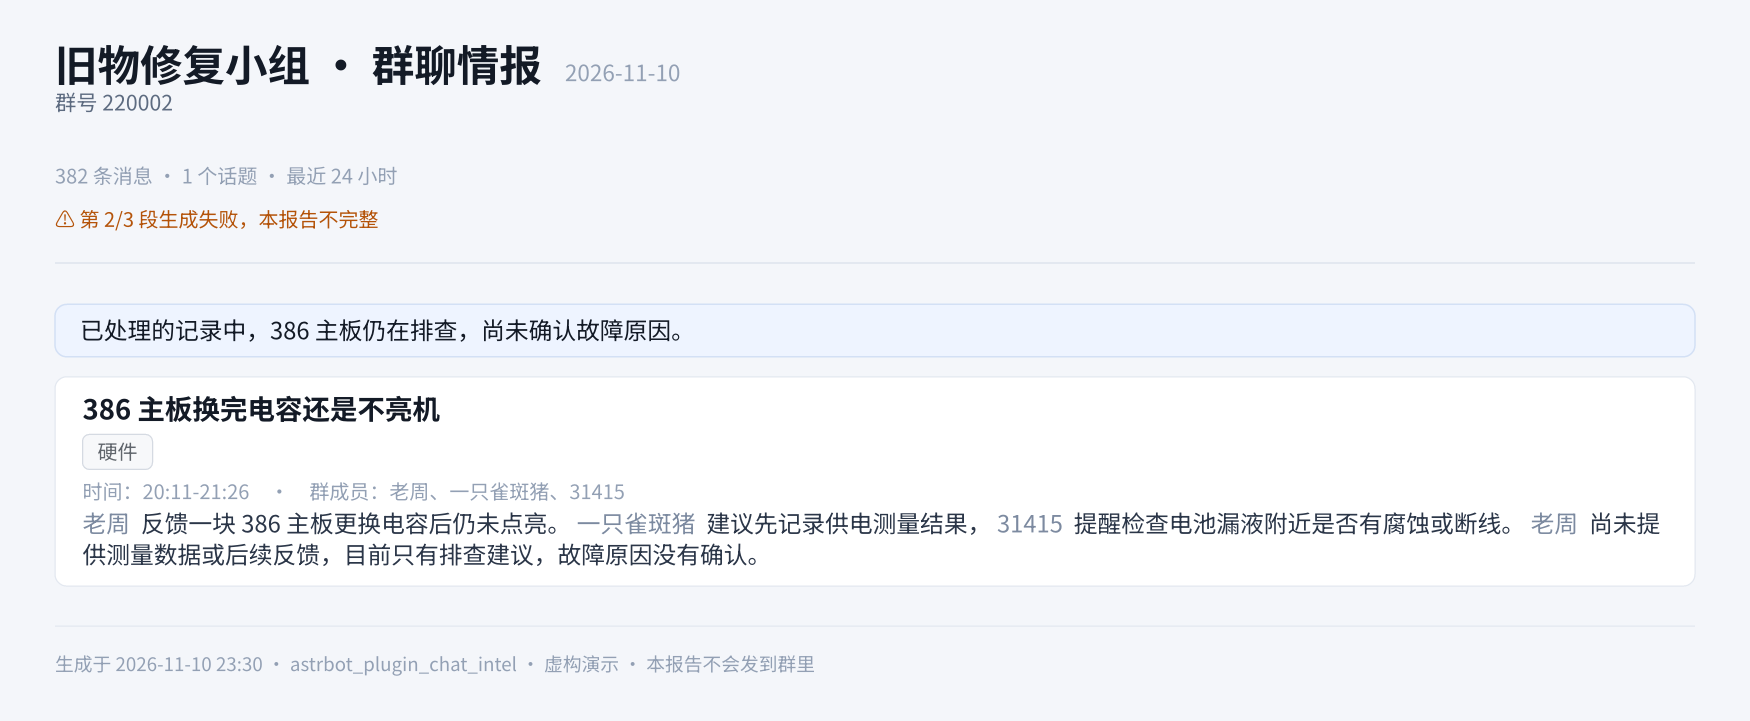
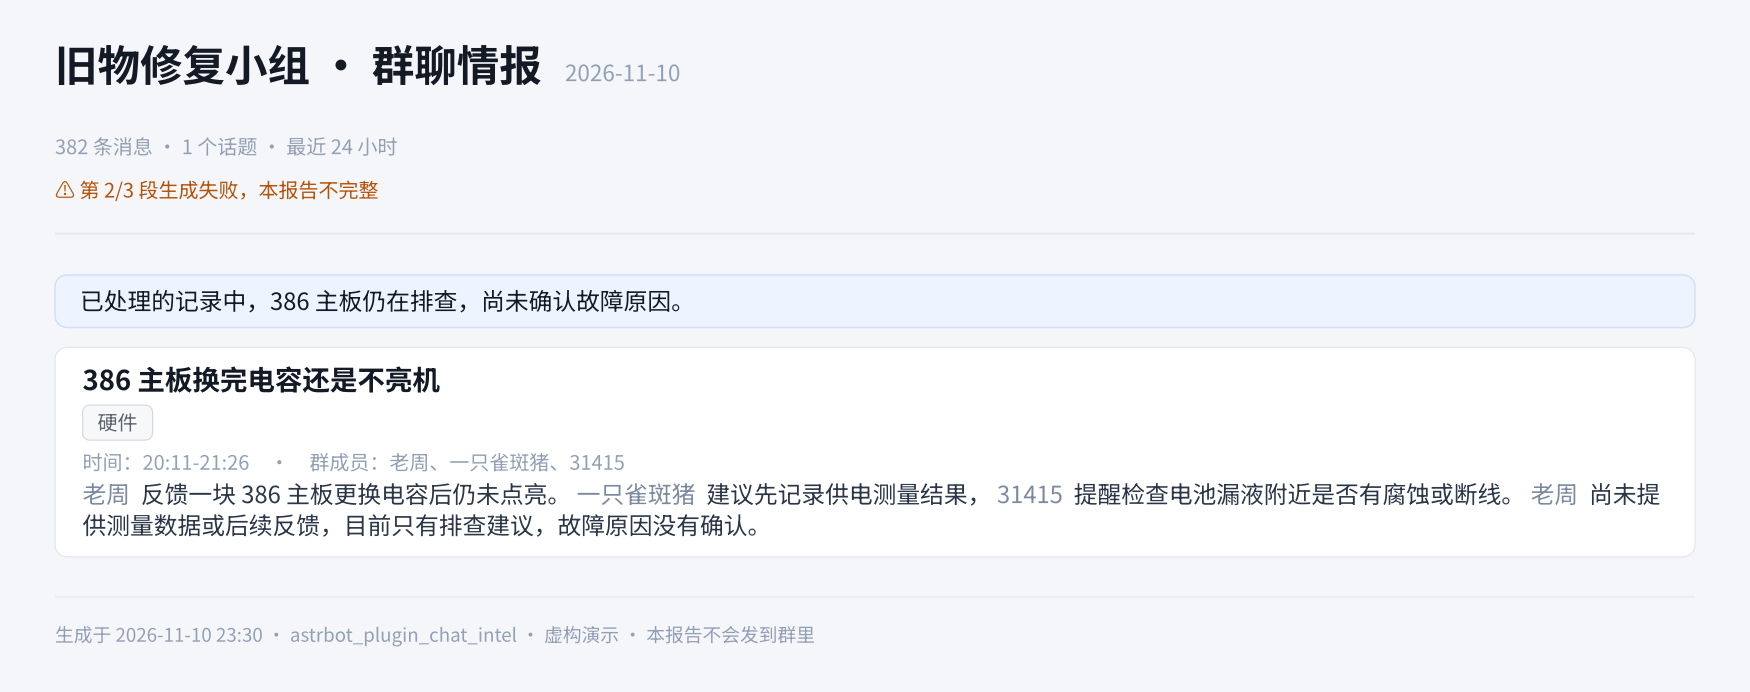
2.2.20：报告图不再印群号（转发不泄露哪个群）——模板删副标题群号行、payload 去掉 group、出图前加 _scrub_gid 强制关卡，群号只留本地 JSON 与文字回复；样张按新模板重绘，新增 5 条隐私测试（351 → 356）

diff --git a/tests/test_report_privacy.py b/tests/test_report_privacy.py
@@ -1,0 +1,107 @@
+"""报告图会被人转发出去，所以图里不许出现群号。
+
+群名可以留（用户自己配的备注，就是给报告当标题用的），群号不行：
+转发一张图等于把「哪个群」直接交出去。
+"""
+
+import json
+
+import pytest
+from conftest import PLUGIN_DIR, make_plugin
+
+GID = "220001"
+
+
+def test_template_does_not_print_group_number():
+    """模板里不该再有任何群号位（以前是标题下面那行「群号 220001」）。"""
+    text = (PLUGIN_DIR / "templates" / "report.typ").read_text(encoding="utf-8")
+    assert "群号" not in text, "模板里还印着群号"
+    assert 'd.at("group"' not in text, "模板还在读 group 字段"
+
+
+def test_scrub_removes_gid_anywhere_in_the_payload():
+    """不管谁把群号塞进哪个字段，出图前都要被抹掉。"""
+    from conftest import load_main
+
+    mod = load_main()
+    payload = {
+        "title": f"测试群 · 群聊情报",
+        "date": "2026-11-10",
+        "group": f"群号 {GID}",
+        "stats": {"line": f"在 {GID} 里采到 382 条"},
+        "headline": f"{GID} 今天很安静",
+        "footer": f"生成于 2026-11-10 23:30 · {GID}",
+        "topics": [{"title": f"来自 {GID} 的话题", "parts": [f"群友说 {GID} 好卡"]}],
+    }
+    out = mod._scrub_gid(payload, GID)
+    dumped = json.dumps(out, ensure_ascii=False)
+    assert GID not in dumped, dumped
+
+
+def test_scrub_keeps_the_rest_of_the_content():
+    """只抹群号，不许把正文弄坏。"""
+    from conftest import load_main
+
+    mod = load_main()
+    payload = {
+        "title": "测试群 · 群聊情报",
+        "stats": {"line": "382 条消息 · 1 个话题 · 最近 24 小时"},
+        "topics": [{"title": "386 主板换完电容还是不亮机", "parts": ["老周 反馈…"]}],
+    }
+    out = mod._scrub_gid(payload, GID)
+    assert out["title"] == payload["title"]
+    assert out["stats"]["line"] == payload["stats"]["line"]
+    assert out["topics"][0]["title"] == payload["topics"][0]["title"]
+
+
+def test_scrub_does_not_touch_other_numbers():
+    """别把 220001 当子串去误伤正常数字（比如消息条数）。"""
+    from conftest import load_main
+
+    mod = load_main()
+    payload = {"stats": {"line": "1220001 条消息"}, "headline": "2200010 次点击"}
+    out = mod._scrub_gid(payload, GID)
+    dumped = json.dumps(out, ensure_ascii=False)
+    assert GID not in dumped
+    # 这两个数字里含群号子串，但不该被整段吃掉到只剩空白
+    assert "条消息" in dumped and "次点击" in dumped
+
+
+def test_render_writes_no_gid_into_the_typst_data(tmp_path, monkeypatch):
+    """真正的关卡在渲染前：写进 data.json 的内容已经没有群号了。"""
+    typst = pytest.importorskip("typst")
+    from conftest import load_main
+
+    mod = load_main()
+    p, _ = make_plugin()
+    p.reports_dir = tmp_path
+    p.template = PLUGIN_DIR / "templates" / "report.typ"
+    p.font_dir = tmp_path
+    p.ppi = 72
+
+    seen: dict = {}
+
+    def fake_compile(*args, **kwargs):
+        root = kwargs.get("root") or ""
+        from pathlib import Path
+
+        seen["data"] = (Path(root) / "data.json").read_text(encoding="utf-8")
+        return None
+
+    monkeypatch.setattr(typst, "compile", fake_compile)
+
+    payload = {
+        "title": "测试群 · 群聊情报",
+        "date": "2026-11-10",
+        "group": f"群号 {GID}",
+        "stats": {"line": f"{GID}"},
+        "headline": "",
+        "warn": "",
+        "topics": [],
+        "footer": f"{GID}",
+    }
+    p._render(payload, GID, "今天")
+
+    assert "data" in seen, "渲染没有走到写 data.json 这一步"
+    assert GID not in seen["data"], seen["data"]
+    assert "测试群" in seen["data"], "正文不该被一起抹掉"

diff --git a/main.py b/main.py
@@ -175,7 +175,31 @@ class DigestRequest:
     again: bool = False  # 用户要求「重跑」：忽略增量位，把这段时间整段重算
 
 
-@register(PLUGIN_NAME, "Ray", "群聊情报：每个群一份标签，把群友聊出来的话题整理成一张长图，视觉模型筛图，本地排版，静默私聊投递；报告可回头讨论、按证据回应追问", "2.2.19")
+def _scrub_gid(value, gid: str):
+    """递归抹掉 payload 里的群号：报告图会被转发，图里不能出现「哪个群」。
+
+    群名保留（那是用户自己配的标题，报告本来就要说明是谁在聊），只处理群号。
+    只替换群号本身而不是整段：整段换掉会把「在 220001 里采到 382 条」一起吃掉。
+    """
+    if not gid:
+        return value
+    if isinstance(value, str):
+        return value.replace(gid, "（群号已隐藏）") if gid in value else value
+    # 容器就地改：调用方的 payload 还是同一份对象（_render 后面还要就地改写图片列表）
+    if isinstance(value, dict):
+        for key in list(value.keys()):
+            value[key] = _scrub_gid(value[key], gid)
+        return value
+    if isinstance(value, list):
+        for i, item in enumerate(value):
+            value[i] = _scrub_gid(item, gid)
+        return value
+    if isinstance(value, tuple):
+        return tuple(_scrub_gid(item, gid) for item in value)
+    return value
+
+
+@register(PLUGIN_NAME, "Ray", "群聊情报：每个群一份标签，把群友聊出来的话题整理成一张长图，视觉模型筛图，本地排版，静默私聊投递；报告可回头讨论、按证据回应追问", "2.2.20")
 class TechDigestPlugin(Star):
     def __init__(self, context: Context, config: dict | None = None):
         super().__init__(context)
@@ -2293,6 +2317,8 @@ class TechDigestPlugin(Star):
         except ImportError:
             logger.error(f"[{PLUGIN_NAME}] 未安装 typst，请 pip install typst")
             return None
+        # 出图前的关卡：报告会被人转发，图里不能出现群号
+        payload = _scrub_gid(payload, gid)
         slug = re.sub(r"[^\w\-]+", "", label) or "report"
         out = self.reports_dir / (
             f"chat_intel_{gid}_{datetime.now():%Y%m%d_%H%M%S}_{slug}.png"
@@ -2438,10 +2464,10 @@ class TechDigestPlugin(Star):
 
         now = datetime.now()
         payload = {
-            # 标题 = 群名备注（或群名）· 全局标题；副标题就只剩群号，免得群名印两遍
+            # 标题 = 群名备注（或群名）· 全局标题。图里不放群号：报告会被转发，
+            # 一张图就等于把「哪个群」交出去；群号只留在本地 JSON 与文字回复里。
             "title": self._report_title_for(chat, group_name),
             "date": now.strftime("%Y-%m-%d"),
-            "group": f"群号 {gid}",
             "stats": {
                 "line": f"{len(records)} 条消息 · {len(topics)} 个话题 · {label}",
             },

diff --git a/scripts/render_assets.py b/scripts/render_assets.py
@@ -109,7 +109,6 @@ SHOT_CHART = """
 SCENE_FULL = {
     "title": "开发茶话会 · 群聊情报",
     "date": "2026-11-10",
-    "group": "群号 220001",
     "stats": {"line": "1286 条消息 · 4 个话题 · 今天"},
     "headline": "CI 的 lint 已跑通，接口延迟恢复；长文档测试仍只有小样本结果。",
     "topics": [
@@ -167,7 +166,6 @@ SCENE_FULL = {
 SCENE_LIGHT = {
     "title": "旧物修复小组 · 群聊情报",
     "date": "2026-11-10",
-    "group": "群号 220002",
     "stats": {"line": "212 条消息 · 2 个话题 · 最近 24 小时"},
     "headline": "386 主板仍未点亮，群友提出检查线索；另一块板子的资料正在核对。",
     "topics": [
@@ -200,7 +198,6 @@ SCENE_LIGHT = {
 SCENE_QUIET = {
     "title": "开发茶话会 · 群聊情报",
     "date": "2026-11-10",
-    "group": "群号 220001",
     "stats": {"line": "233 条消息 · 0 个话题 · 最新消息"},
     "headline": "",
     "topics": [],
@@ -210,7 +207,6 @@ SCENE_QUIET = {
 SCENE_INCOMPLETE = {
     "title": "旧物修复小组 · 群聊情报",
     "date": "2026-11-10",
-    "group": "群号 220002",
     "stats": {"line": "382 条消息 · 1 个话题 · 最近 24 小时"},
     "warn": "⚠ 第 2/3 段生成失败，本报告不完整",
     "headline": "已处理的记录中，386 主板仍在排查，尚未确认故障原因。",

diff --git a/CHANGELOG.md b/CHANGELOG.md
@@ -1,5 +1,22 @@
 # Changelog
 
+## 2.2.20 — 2026-11-10
+
+**报告图不再印群号。** 报告图会被转发到别处，标题下面那行「群号 220001」等于把「这是哪个群」
+直接交出去，属于隐私泄露。
+
+- 模板删掉副标题里的群号行；出图 payload 不再有 `group` 字段，标题仍是「群名备注或自动群名 · 全局标题」。
+- 加一道出图前的强制关卡 `_scrub_gid()`：即使以后有人往 payload 里塞了群号（页脚、统计行、话题正文），
+  写进 Typst 数据前也会被替换成「（群号已隐藏）」。只替换群号本身，不整段吞掉，正文不受损。
+- 群号仍然保留在本地报告 JSON 和文字回复里：查记录、选中群、工具参数都要它，只是不进图。
+- 三张样张按新模板重绘，README 补一句为什么图里不印群号。
+
+测试 351 → **356 条**（新增：模板不许出现群号位、payload 任意字段里的群号都会被抹、
+不影响正常正文、不误伤其他数字、`_render` 写进 `data.json` 的内容已经不含群号）。
+
+已知残留：报告文件**名**里还带群号（`chat_intel_<群号>_<时间>_<范围>.png`）。
+它不在图里，但在文件名里；改掉它会影响 `report_id` 的格式和已存报告的查找，留待单独处理。
+
 ## 2.2.19 — 2026-11-10
 
 **文案与提示词重写：说明怎么用，不再复述修过什么。** 执行逻辑未改。

diff --git a/README.md b/README.md
@@ -12,9 +12,9 @@
 
 ## 样张
 
-以下内容、群名、群号与成员均为虚构演示，使用当前报告模板与图片排版逻辑生成。
+以下内容、群名与成员均为虚构演示，使用当前报告模板与图片排版逻辑生成。
 
-**多话题报告**包含标题、兴趣标签、讨论时间、参与人、正文和对应配图。
+**多话题报告**包含标题、兴趣标签、讨论时间、参与人、正文和对应配图。标题只写群名（或你配的群名备注），**图里不印群号**——报告图常被转发，一张图就等于把「哪个群」交出去；群号只保留在本地报告 JSON 和文字回复里。
 
 <img src="docs/sample-full.png" width="700" alt="多话题报告示例，展示讨论经过、证据图片与尚未验证的建议">
 
